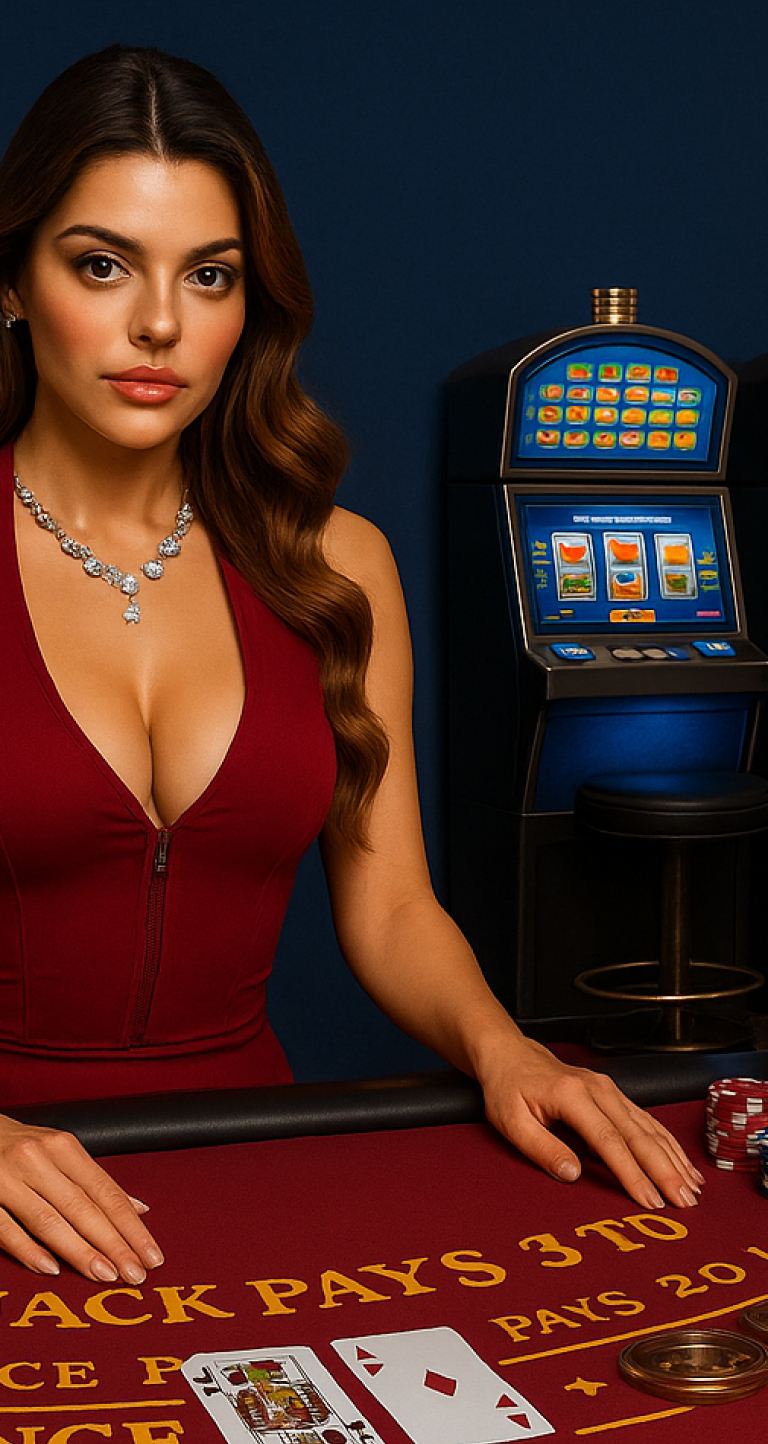
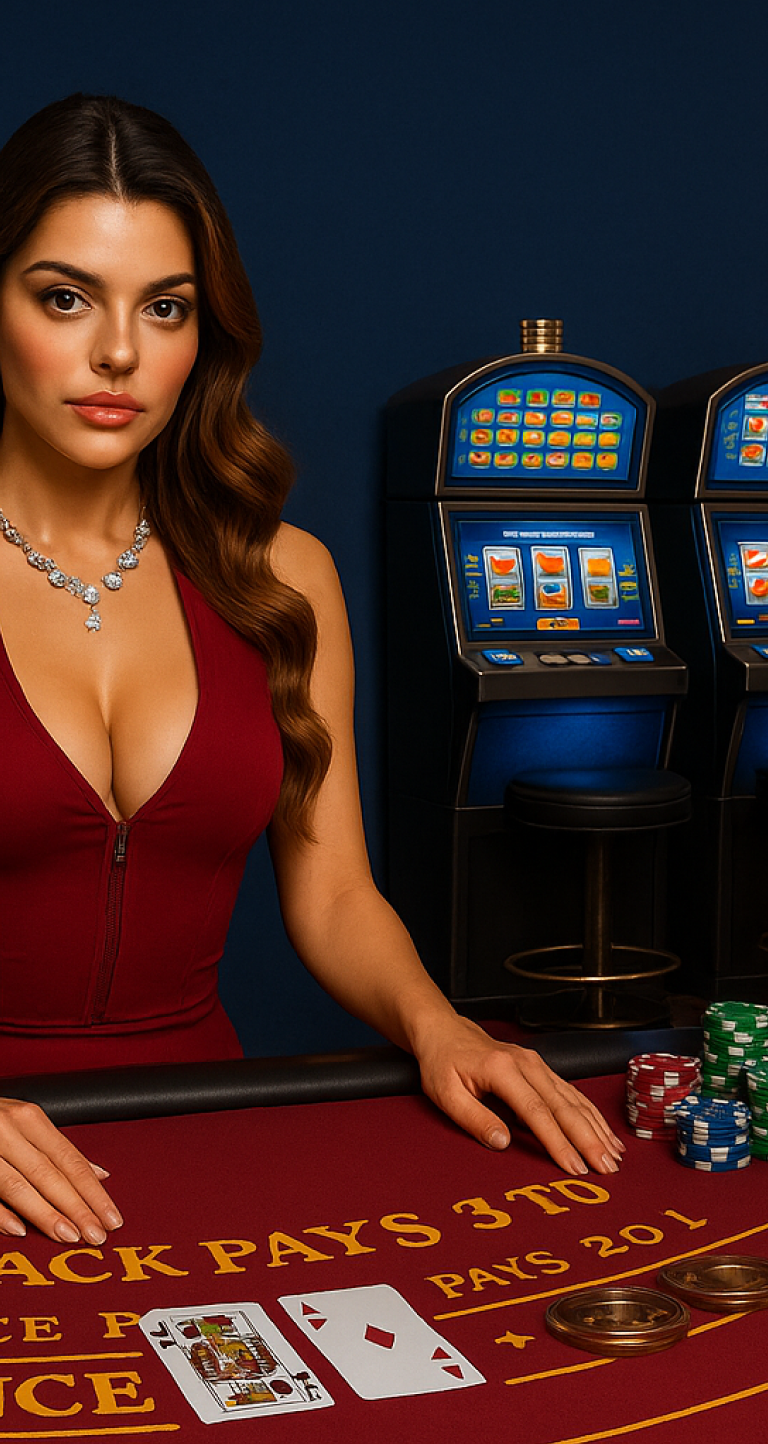
updated backgound image and margins

diff --git a/index.html b/index.html
@@ -58,7 +58,7 @@
       </header>
       <main class="main">
         <div class="main__elem main__elem--1">
-          <img src="YYY%20-%20BlackJack_files/ch_3.png" alt="" />
+          <!-- <img src="YYY%20-%20BlackJack_files/ch_3.png" alt="" /> -->
         </div>
         <!-- <div class="container">
           <div class="main__wrap">

diff --git a/YYY - BlackJack_files/style.min.css b/YYY - BlackJack_files/style.min.css
@@ -847,6 +847,8 @@ body {
     background-image: url(./bg_main_mob.png);
     -moz-background-size: 100% 100%;
     background-size: 100% 100%;
+    /* background-size: contain; */
+
     background-repeat: no-repeat;
     overflow: hidden;
   }
